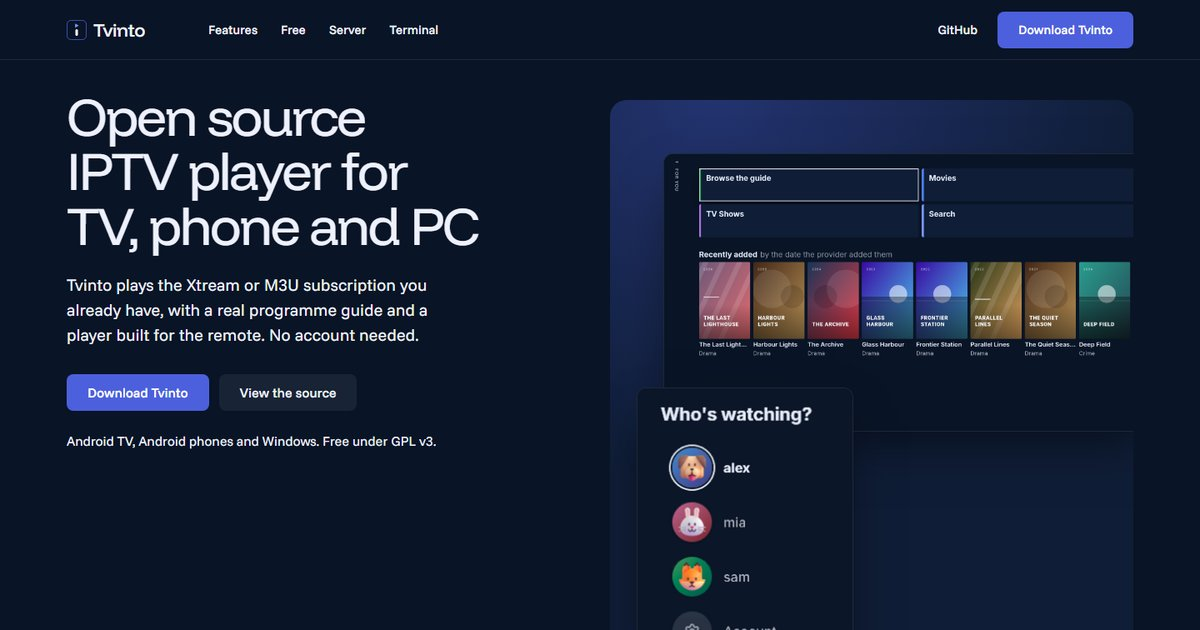
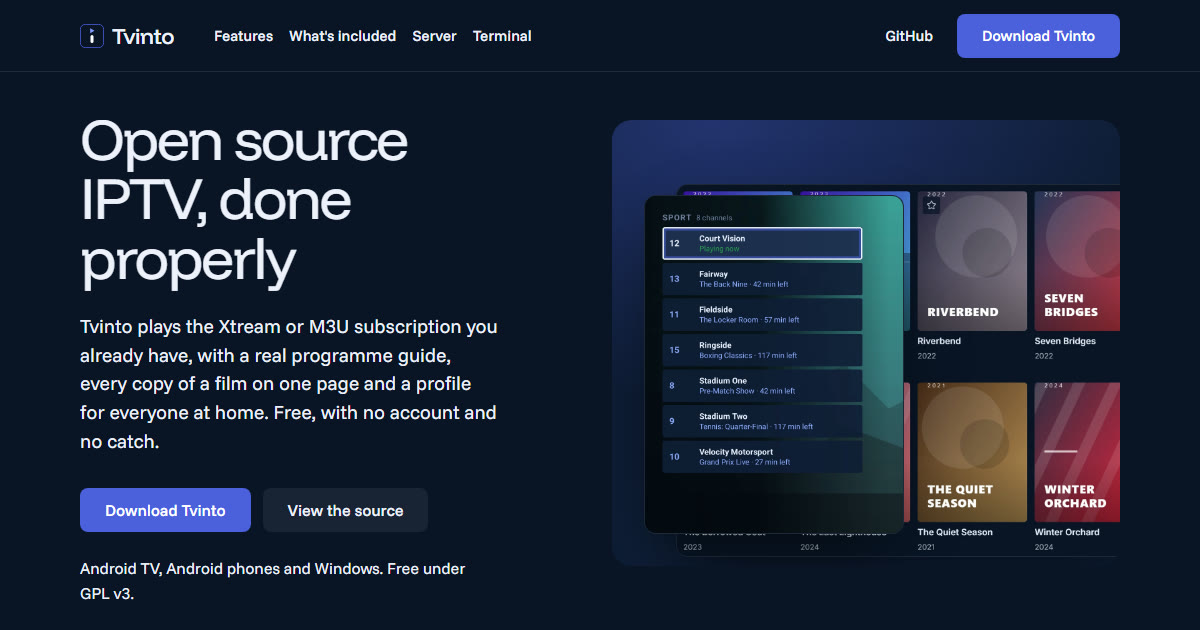
Website: SEO fixes from a page review
- 404.html: without it Cloudflare Pages answers every unknown address,
  robots.txt and sitemap.xml included, with the home page and a 200.
- robots.txt, allowing everything (the sitemap waits for the domain).
- SoftwareApplication JSON-LD: free, GPL v3, Android TV, Android, Windows.
- og:description matches the new lead; og:site_name and the share
  image's size and alt text added.
- share.jpg retaken from the current page (it still showed the old
  headline, the "Free" menu item and the old hero).
- The guide's four pictures wait until the page has loaded.

diff --git a/site/index.html b/site/index.html
@@ -7,8 +7,20 @@
 <meta name="description" content="Plays the Xtream or M3U subscription you already have on Android TV, Android phones and Windows, with a real programme guide. Free under GPL v3.">
 <meta property="og:type" content="website">
 <meta property="og:title" content="Tvinto: open source IPTV player for TV, phone and PC">
-<meta property="og:description" content="A real programme guide and a player built for the remote. No account needed.">
+<meta property="og:description" content="Plays the Xtream or M3U subscription you already have, with a real programme guide, every copy of a film on one page and a profile for everyone at home. Free, no account.">
+<meta property="og:site_name" content="Tvinto">
+<meta property="og:image:width" content="1200">
+<meta property="og:image:height" content="630">
+<meta property="og:image:alt" content="Tvinto's home page: Open source IPTV, done properly, beside a shelf of films">
 <meta property="og:image" content="share.jpg">
+<script type="application/ld+json">
+{"@context": "https://schema.org", "@type": "SoftwareApplication", "name": "Tvinto",
+ "description": "An open source IPTV player for the Xtream or M3U subscription you already have, with a programme guide, on Android TV, Android phones and Windows.",
+ "applicationCategory": "MultimediaApplication", "operatingSystem": "Android TV, Android, Windows",
+ "offers": {"@type": "Offer", "price": "0", "priceCurrency": "EUR"},
+ "license": "https://www.gnu.org/licenses/gpl-3.0.html",
+ "downloadUrl": "https://github.com/tvinto/tvinto/releases", "sameAs": ["https://github.com/tvinto/tvinto"]}
+</script>
 <meta name="twitter:card" content="summary_large_image">
 <link rel="icon" href="img/tvinto-icon.svg" type="image/svg+xml">
 <meta name="theme-color" content="#091426">
@@ -169,22 +181,22 @@ and make og:image absolute (https://tvinto.app/share.jpg): some sites ignore a r
           <li class="mo-pc__step">
             <h3>A programme guide in the app</h3>
             <p>A TV-style grid with what's on now, a mini guide inside the player, reminders and catch-up.</p>
-            <figure class="mo-pc__visual"><img src="img/tv-guide.webp" alt="The Sport guide on Android TV, with a channel's preview playing above what is on now" width="1440" height="1080" data-source="client" data-subject="the app's programme guide"></figure>
+            <figure class="mo-pc__visual"><img src="img/tv-guide.webp" loading="lazy" decoding="async" alt="The Sport guide on Android TV, with a channel's preview playing above what is on now" width="1440" height="1080" data-source="client" data-subject="the app's programme guide"></figure>
           </li>
           <li class="mo-pc__step">
             <h3>Every copy of a film on one page</h3>
             <p>Providers list a film once per language and quality. Tvinto groups them and plays yours first.</p>
-            <figure class="mo-pc__visual"><img src="img/film-copies.webp" alt="The Last Lighthouse with four copies: English 4K, German HD, Croatian and one with no language given" width="1440" height="1080" data-source="client" data-subject="a film page with its copies"></figure>
+            <figure class="mo-pc__visual"><img src="img/film-copies.webp" loading="lazy" decoding="async" alt="The Last Lighthouse with four copies: English 4K, German HD, Croatian and one with no language given" width="1440" height="1080" data-source="client" data-subject="a film page with its copies"></figure>
           </li>
           <li class="mo-pc__step">
             <h3>Channels change inside the player</h3>
             <p>Up and down switch channel. Left opens the mini guide with what's on everywhere else.</p>
-            <figure class="mo-pc__visual"><img src="img/tv-player-guide.webp" alt="The mini guide over a playing channel, listing the Sport channels" width="1440" height="1080" data-source="client" data-subject="the player's mini guide"></figure>
+            <figure class="mo-pc__visual"><img src="img/tv-player-guide.webp" loading="lazy" decoding="async" alt="The mini guide over a playing channel, listing the Sport channels" width="1440" height="1080" data-source="client" data-subject="the player's mini guide"></figure>
           </li>
           <li class="mo-pc__step">
             <h3>A profile for everyone at home</h3>
             <p>Who's watching? with a picture each. You set up the kids' accounts and their PIN.</p>
-            <figure class="mo-pc__visual"><img src="img/profiles-row.webp" alt="Who's watching? with three profiles, each with an animal picture" width="1440" height="1080" data-source="client" data-subject="the app's profile picker"></figure>
+            <figure class="mo-pc__visual"><img src="img/profiles-row.webp" loading="lazy" decoding="async" alt="Who's watching? with three profiles, each with an animal picture" width="1440" height="1080" data-source="client" data-subject="the app's profile picker"></figure>
           </li>
         </ol>
       </div>

diff --git a/site/404.html b/site/404.html
@@ -1,0 +1,26 @@
+<!doctype html>
+<html lang="en">
+<head>
+<meta charset="utf-8">
+<meta name="viewport" content="width=device-width, initial-scale=1">
+<meta name="robots" content="noindex">
+<title>Page not found · Tvinto</title>
+<link rel="icon" href="/img/tvinto-icon.svg" type="image/svg+xml">
+<meta name="theme-color" content="#091426">
+<!-- Cloudflare Pages answers any address it has no file for with this page and a 404.
+     Without it, Pages treats the site as a single-page app and answers every address with index.html. -->
+<style>
+  body { margin: 0; min-height: 100svh; display: grid; place-content: center; gap: 16px; padding: 24px;
+         background: #091426; color: #eef1fb; font: 18px/1.5 system-ui, "Segoe UI", sans-serif; text-align: center; }
+  h1 { margin: 0; font-size: 32px; font-weight: 500; }
+  p { margin: 0; color: #9aa6c4; }
+  a { color: #fff; background: #4c60dd; padding: 12px 22px; border-radius: 10px; text-decoration: none; justify-self: center; font-weight: 600; }
+  a:focus-visible { outline: 3px solid #9aa6c4; outline-offset: 3px; }
+</style>
+</head>
+<body>
+  <h1>This page isn't here</h1>
+  <p>The address may be mistyped, or the page has moved.</p>
+  <a href="/">Go to Tvinto</a>
+</body>
+</html>

diff --git a/site/README.md b/site/README.md
@@ -21,6 +21,14 @@ The code itself is written once, in `index.html` (`close__code`).
 
 `_headers` sets caching and security headers.
 
+`404.html` matters more than it looks: without it Pages treats the site as a
+single-page app and answers every address, `/robots.txt` and typos included,
+with the home page and a 200. `robots.txt` allows everything.
+
+Once the domain exists: uncomment the canonical link and `og:url` in
+`index.html`, make `og:image` absolute, and add a one-line `sitemap.xml` and
+its `Sitemap:` line in `robots.txt` (both need the full address).
+
 ## Previewing it
 
 From the repository root:
